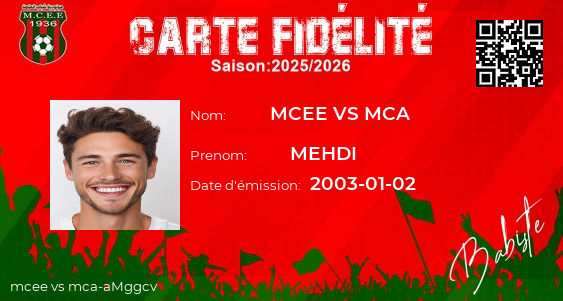
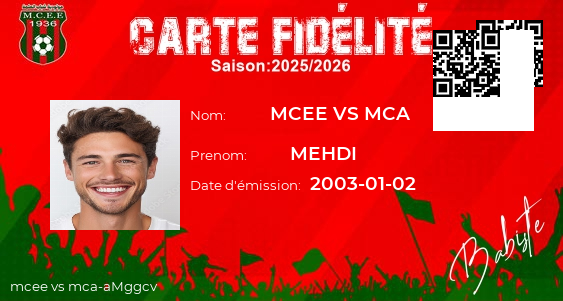
3

Changed region(s): [[0.7549, 0.0897, 0.9663, 0.4485]]

diff --git a/app/Http/Controllers/Admin/FanController.php b/app/Http/Controllers/Admin/FanController.php
@@ -126,6 +126,7 @@ class FanController extends Controller
         'image'        => 'required|image|mimes:jpg,jpeg,png|max:2048',
         'imagecart'    => 'required|image|mimes:jpg,jpeg,png|max:2048',
         'id_abonment'  => 'required|exists:abonments,id',
+        
     ]);
 
     $uploadsFolder = public_path('uploads');
@@ -140,7 +141,7 @@ class FanController extends Controller
     // ✅ Generate QR code
     $qrFileName = $randomId . '_qr.png';
     $qrPath = $uploadsFolder . '/' . $qrFileName;
-    $pngData = QrCode::format('png')->size(67)->generate($randomId);
+    $pngData = QrCode::format('png')->size(pixels: 67)->generate($randomId);
     file_put_contents($qrPath, $pngData);
     $validated['qr_img'] = '/uploads/' . $qrFileName;
 
@@ -285,7 +286,7 @@ imagettftext($card, $fontSize, 0, $x, $y, $white, $fontRegular, $text);
     $pdfQrPath = $uploadsFolder . '/' . $pdfQrFileName;
 
     $pdfUrl = route('fans.cardPdftelecharger', $fan->id); // link to PDF
-    $pngData2 = QrCode::format('png')->size(pixels: 80)->generate($pdfUrl);
+    $pngData2 = QrCode::format('png')->size(pixels: 67)->generate($pdfUrl);
     file_put_contents($pdfQrPath, $pngData2);
 
     $fan->update([
@@ -323,59 +324,131 @@ public function cardPdftelecharger($id)
 }
 
 
-  
+
 public function regenerate(Request $request, $id)
 {
     $fan = Fan::findOrFail($id);
+    $abonment = Abonment::findOrFail($fan->id_abonment);
 
     $uploadsFolder = public_path('uploads');
     if (!file_exists($uploadsFolder)) {
         mkdir($uploadsFolder, 0777, true);
     }
 
-    // 1⃣ Générer un nouvel ID QR
-    $randomId = $fan->nom . '-' . Str::random(6);
-    $fan->id_qrcode = $randomId;
-
-    // 2⃣ Générer le nouveau QR code
-    $qrFileName = $randomId . '_qr.png';
-    $qrPath = $uploadsFolder . '/' . $qrFileName;
-    $pngData = QrCode::format('png')->size(pixels: 100)->generate($randomId);
-    
-    // Supprimer l'ancien QR code si existe
+    // 🔄 1. Supprimer les anciens fichiers (QR, carte, QR PDF)
     if ($fan->qr_img && file_exists(public_path($fan->qr_img))) {
         unlink(public_path($fan->qr_img));
     }
+    if ($fan->card && file_exists(public_path($fan->card))) {
+        unlink(public_path($fan->card));
+    }
+    if ($fan->qr_pdf_img && file_exists(public_path($fan->qr_pdf_img))) {
+        unlink(public_path($fan->qr_pdf_img));
+    }
+
+    // 🔄 2. Générer nouvel ID QR
+    $randomId = $fan->nom . '-' . Str::random(6);
+    $fan->id_qrcode = $randomId;
+
+    // 🔄 3. Nouveau QR code
+    $qrFileName = $randomId . '_qr.png';
+    $qrPath = $uploadsFolder . '/' . $qrFileName;
+    $pngData = QrCode::format('png')->size(67)->generate($randomId);
     file_put_contents($qrPath, $pngData);
     $fan->qr_img = '/uploads/' . $qrFileName;
 
-    // 3⃣ Générer la nouvelle carte avec le nouveau QR code
-    if ($fan->card && file_exists(public_path($fan->card))) {
-        // Charger l'image existante de la carte
-        $card = imagecreatefrompng(public_path($fan->card));
-        $cardWidth = imagesx($card);
-        $cardHeight = imagesy($card);
-
-        $qr = imagecreatefrompng($qrPath);
-        $qrWidth = imagesx($qr);
-        $qrHeight = imagesy($qr);
-
-        // Position QR code sur la carte (à ajuster selon ton template)
-        $qrX = $cardWidth - $qrWidth - 30;
-        $qrY = 30;
-
-        imagecopy($card, $qr, $qrX, $qrY, 0, 0, $qrWidth, $qrHeight);
-        imagedestroy($qr);
-
-        // Sauvegarder la carte (remplace l'ancienne)
-        imagepng($card, public_path($fan->card));
-        imagedestroy($card);
+    // 🔄 4. Charger le template de l’abonnement
+    $cardTemplatePath = public_path($abonment->desgin_card);
+    if (!file_exists($cardTemplatePath)) {
+        return back()->withErrors(['desgin_card' => 'Card template not found at ' . $cardTemplatePath]);
     }
+
+    $ext = strtolower(pathinfo($cardTemplatePath, PATHINFO_EXTENSION));
+    switch ($ext) {
+        case 'jpg':
+        case 'jpeg':
+            $card = imagecreatefromjpeg($cardTemplatePath);
+            break;
+        case 'png':
+            $card = imagecreatefrompng($cardTemplatePath);
+            break;
+        default:
+            return back()->withErrors(['desgin_card' => 'Unsupported template format']);
+    }
+
+    // 🔄 5. Ajouter QR
+    $qr = imagecreatefrompng($qrPath);
+    $qrX = imagesx($card) - imagesx($qr) - 20;
+    $qrY = 20;
+    imagecopy($card, $qr, $qrX, $qrY, 0, 0, imagesx($qr), imagesy($qr));
+    imagedestroy($qr);
+
+    // 🔄 6. Ajouter photo de profil
+    $profilePath = public_path($fan->image);
+    if (file_exists($profilePath)) {
+        $profileExt = strtolower(pathinfo($profilePath, PATHINFO_EXTENSION));
+        $profile = $profileExt === 'png'
+            ? imagecreatefrompng($profilePath)
+            : imagecreatefromjpeg($profilePath);
+        $profile = imagescale($profile, 130, 130);
+        $profileX = 50;
+        $profileY = 100;
+        imagecopy($card, $profile, $profileX, $profileY, 0, 0, 130, 130);
+        imagedestroy($profile);
+    }
+
+    // 🔄 7. Ajouter textes (Nom, Prénom, Date…)
+    $white = imagecolorallocate($card, 255, 255, 255);
+    $fontRegular = public_path('fonts/Montserrat-Regular.ttf');
+    $fontSemiBold = public_path('fonts/Montserrat-SemiBold.ttf');
+
+    // Nom
+    $labelX = 190;
+    $nameX = 270;
+    $yNom = 120;
+    imagettftext($card, 10, 0, $labelX, $yNom, $white, $fontRegular, 'Nom:');
+    imagettftext($card, 14, 0, $nameX, $yNom, $white, $fontSemiBold, strtoupper($fan->nom));
+
+    // Prénom
+    $yPrenom = 160;
+    imagettftext($card, 10, 0, $labelX, $yPrenom, $white, $fontRegular, 'Prenom:');
+    imagettftext($card, 14, 0, $nameX, $yPrenom, $white, $fontSemiBold, strtoupper($fan->prenom));
+
+    // Date de naissance (ou émission si tu veux)
+    $yDate = 190;
+    imagettftext($card, 10, 0, $labelX, $yDate, $white, $fontRegular, 'Date d\'émission:');
+    imagettftext($card, 14, 0, $nameX + 37, $yDate, $white, $fontSemiBold, $fan->date_de_nai);
+
+    // ID QR (texte en bas)
+    $padding = 10;
+    $text = $fan->id_qrcode;
+    $fontSize = 10;
+    $cardHeight = imagesy($card);
+    $x = $padding;
+    $y = $cardHeight - $padding;
+    imagettftext($card, $fontSize, 0, $x, $y, $white, $fontRegular, $text);
+
+    // 🔄 8. Sauvegarde nouvelle carte
+    $cardFileName = $randomId . '_card.png';
+    $cardPath = $uploadsFolder . '/' . $cardFileName;
+    imagepng($card, $cardPath);
+    imagedestroy($card);
+    $fan->card = '/uploads/' . $cardFileName;
+
+    // 🔄 9. Générer QR vers PDF
+    $pdfQrFileName = $randomId . '_pdf_qr.png';
+    $pdfQrPath = $uploadsFolder . '/' . $pdfQrFileName;
+    $pdfUrl = route('fans.cardPdftelecharger', $fan->id);
+    $pngData2 = QrCode::format('png')->size(67)->generate($pdfUrl);
+    file_put_contents($pdfQrPath, $pngData2);
+    $fan->qr_pdf_img = '/uploads/' . $pdfQrFileName;
 
     $fan->save();
 
-    return redirect()->back()->with('success', 'QR code et carte régénérés avec succès.');
+    return redirect()->back()->with('success', 'Carte et QR régénérés avec succès.');
 }
+
+
 
 
 

diff --git a/resources/views/backend/fans/show.blade.php b/resources/views/backend/fans/show.blade.php
@@ -110,42 +110,6 @@
 </div>
 
 <!-- Scripts -->
-<script src="https://cdn.jsdelivr.net/npm/bootstrap@5.3.0/dist/js/bootstrap.bundle.min.js"></script>
-<script>
-document.querySelectorAll('.regenerate-form').forEach(form => {
-    form.addEventListener('submit', function(e){
-        e.preventDefault();
-        if(!confirm('Regenerate QR code and card for this fan?')) return;
 
-        fetch(this.action, {
-            method: 'POST',
-            headers: {
-                'X-CSRF-TOKEN': document.querySelector('meta[name="csrf-token"]').content,
-                'Accept': 'application/json'
-            }
-        })
-        .then(res => res.json())
-        .then(data => {
-            if(data.success){
-                // Update images dynamically
-                document.getElementById('qr-image').src = data.qr_img + '?' + new Date().getTime();
-                document.getElementById('card-image').src = data.card_img + '?' + new Date().getTime();
-                document.getElementById('qr-pdf-image').src = data.qr_pdf_img + '?' + new Date().getTime();
-
-                // Show toast
-                const toastEl = document.getElementById('liveToast');
-                document.getElementById('toast-message').innerText = data.message;
-                const toast = new bootstrap.Toast(toastEl);
-                toast.show();
-            } else {
-                alert('Error: ' + data.message);
-            }
-        }).catch(err => {
-            console.error(err);
-            
-        });
-    });
-});
-</script>
 
 @endsection

diff --git a/routes/web.php b/routes/web.php
@@ -25,6 +25,9 @@ use App\Http\Controllers\Admin\dashboardController;
 Route::get('/', function () {
     return view('frontend.index');
 });
+
+Route::get('/fans/{fan}/cardtelecharger', [FanController::class, 'cardPdftelecharger'])
+->name('fans.cardPdftelecharger');
 Route::get('/generate-card-index', [IndexController::class, 'create'])->name('generate.card.index');
 Route::post('/generate-card-preview', [IndexController::class, 'index'])->name('generate.card.preview');
 
@@ -32,7 +35,7 @@ Route::post('/generate-card-preview', [IndexController::class, 'index'])->name('
 
 
 
-
+///////////// adlin////////////////////
 Route::middleware(['auth', 'verified'])->group(function () {
 Route::get('/create', function () {
     return view('backend.fans.create');
@@ -53,8 +56,7 @@ Route::get('/fans/bulk-pdf', [FanController::class, 'bulkPdf'])->name('fans.bulk
 // عرض فان واحد بالتفصيل
 Route::get('/fans/{fan}', [FanController::class, 'show'])->name('fans.show');
 Route::get('/fans/{fan}/card', [FanController::class, 'cardPdf'])->name('fans.cardPdf');
-Route::get('/fans/{fan}/cardtelecharger', [FanController::class, 'cardPdftelecharger'])
-->name('fans.cardPdftelecharger');
+
 // فورم تعديل فان
 Route::get('/fans/{fan}/edit', [FanController::class, 'edit'])->name('fans.edit');
 

diff --git a/database/migrations/2025_09_20_145433_add_abonment_id_to_fans_table.php b/database/migrations/2025_09_20_145433_add_abonment_id_to_fans_table.php
@@ -1,0 +1,31 @@
+<?php
+
+use Illuminate\Database\Migrations\Migration;
+use Illuminate\Database\Schema\Blueprint;
+use Illuminate\Support\Facades\Schema;
+
+return new class extends Migration
+{
+    /**
+     * Run the migrations.
+     */
+    public function up(): void
+    {
+        Schema::table('fan', function (Blueprint $table) {
+            //
+                $table->unsignedBigInteger('id_abonment')->after('id'); 
+
+      
+        });
+    }
+
+    /**
+     * Reverse the migrations.
+     */
+    public function down(): void
+    {
+        Schema::table('fan', function (Blueprint $table) {
+            //
+        });
+    }
+};

diff --git a/app/Models/fan.php b/app/Models/fan.php
@@ -5,12 +5,13 @@ namespace App\Models;
 use Illuminate\Database\Eloquent\Factories\HasFactory;
 use Illuminate\Database\Eloquent\Model;
 
-class Fan extends Model
+class fan extends Model
 {
     use HasFactory;
     protected $table = 'fan';
     protected $fillable = [
         'id_qrcode',
+        'id_abonment',
         'nom',
         'prenom',
         'image',
@@ -29,6 +30,10 @@ class Fan extends Model
 public function events()
 {
     return $this->belongsToMany(Event::class, 'attendances', 'fan_id', 'id_event');
+}
+public function abonment()
+{
+    return $this->belongsTo(Abonment::class, 'id_abonment');
 }
 
 }

diff --git a/app/Models/Abonment.php b/app/Models/Abonment.php
@@ -20,6 +20,10 @@ class Abonment extends Model
 {
     return $this->hasMany(TransactionPaimnt::class, 'id_abonment');
 }
+public function fans()
+{
+    return $this->hasMany(Fan::class, 'id_abonment');
+}
 
 
 }
